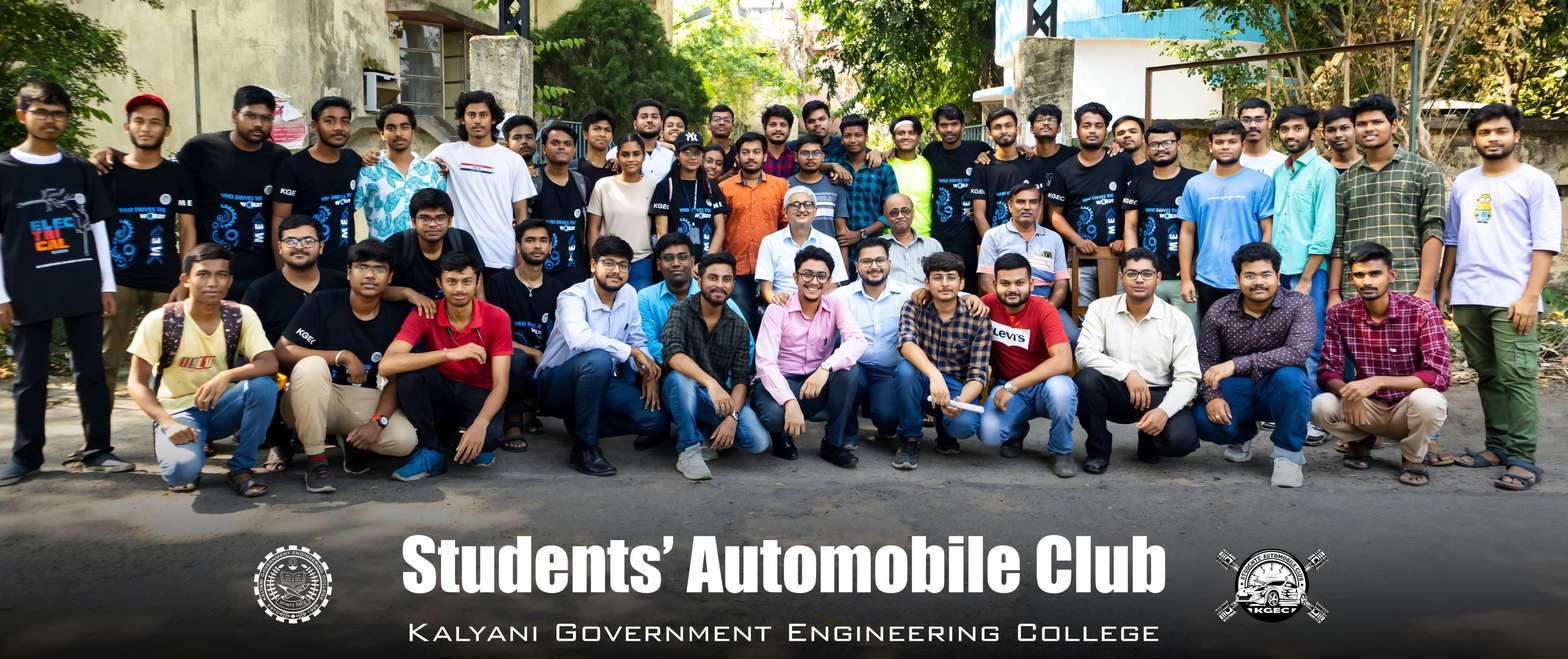
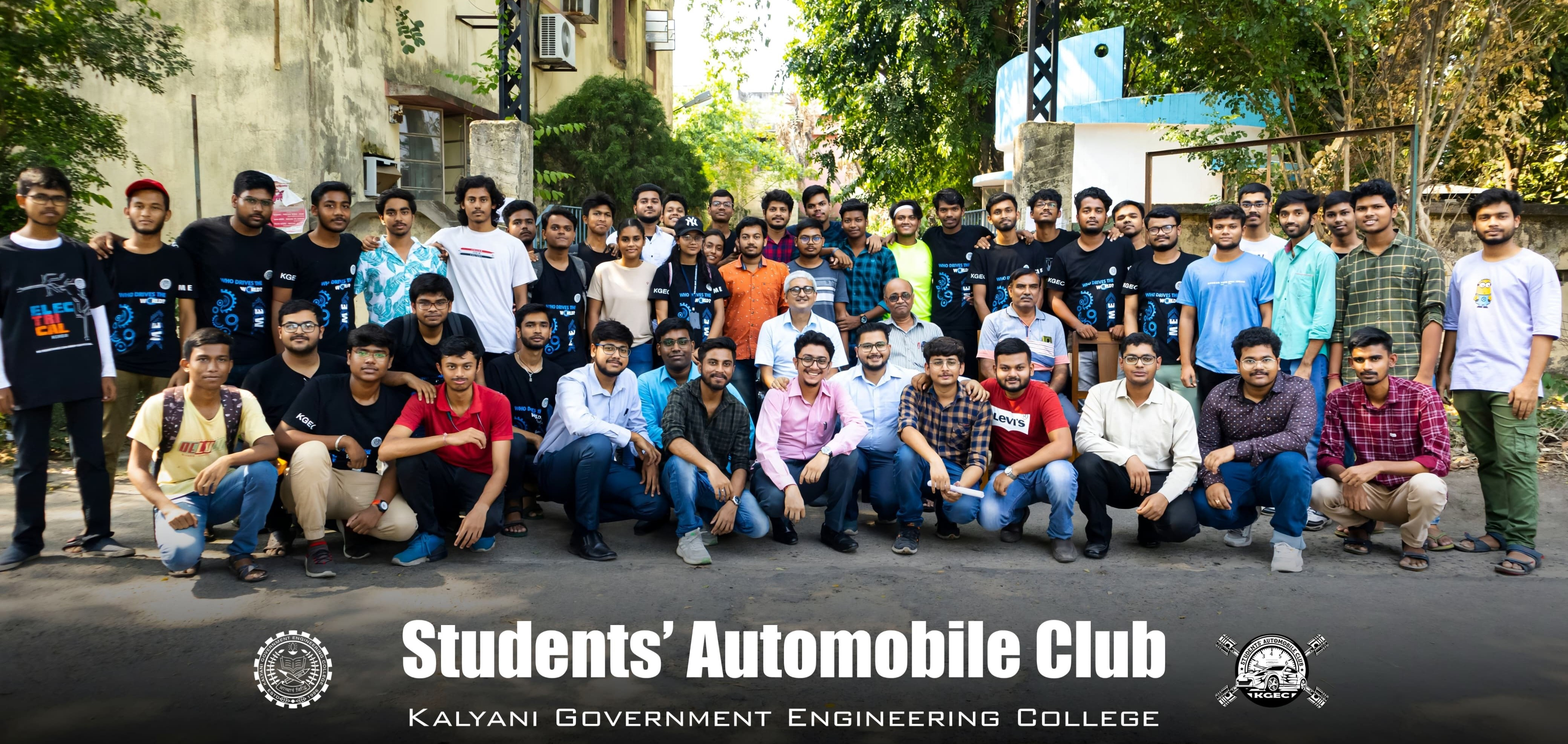
changed bg

diff --git a/src/Components/SocialLinks.jsx b/src/Components/SocialLinks.jsx
@@ -11,7 +11,7 @@ const SocialLinks = () => {
         href="https://www.instagram.com/sac_kgec?igsh=MWJzN3dnMm1iNDFjMQ=="
         target="_blank"
         rel="noopener noreferrer"
-        className=" hover:cursor-pointer bg-customColor text-center flex felx-col hover:bg-orange-600/60 justify-center items-center w-fit h-fit rounded-full p-2"
+        className="shadow-lg hover:cursor-pointer bg-customColor text-center flex felx-col hover:bg-orange-600/60 justify-center items-center w-fit h-fit rounded-full p-2"
       >
         <FaInstagram className="text-white font-bold sm:h-10 h-8 sm:w-10 w-8" />
       </a>
@@ -19,7 +19,7 @@ const SocialLinks = () => {
         href="https://www.facebook.com/share/wBioE34VAxutAccD/?mibextid=qi2Omg"
         target="_blank"
         rel="noopener noreferrer"
-        className="hover:bg-orange-600/60 hover:cursor-pointer  bg-customColor text-center flex felx-col justify-center items-center w-fit h-fit rounded-full p-2"
+        className="shadow-lg hover:bg-orange-600/60 hover:cursor-pointer  bg-customColor text-center flex felx-col justify-center items-center w-fit h-fit rounded-full p-2"
       >
         <FaFacebookF className="text-white font-bold sm:h-10 h-8 sm:w-10 w-8" />
       </a>
@@ -27,7 +27,7 @@ const SocialLinks = () => {
         href="https://youtube.com/@studentsautomobileclubkgec?si=6qhbX2yXYD2py0bw"
         target="_blank"
         rel="noopener noreferrer"
-        className="hover:bg-orange-600/60 hover:cursor-pointer  bg-customColor text-center flex felx-col justify-center items-center w-fit h-fit rounded-full p-2"
+        className="shadow-lg hover:bg-orange-600/60 hover:cursor-pointer  bg-customColor text-center flex felx-col justify-center items-center w-fit h-fit rounded-full p-2"
       >
         <FaYoutube className="text-white font-bold sm:h-10 h-8 sm:w-10 w-8" />
       </a>
@@ -35,7 +35,7 @@ const SocialLinks = () => {
         href="https://www.linkedin.com/company/students-automobile-club-of-kgec/"
         target="_blank"
         rel="noopener noreferrer"
-        className="hover:bg-orange-600/60 hover:cursor-pointer  bg-customColor text-center flex felx-col justify-center items-center w-fit h-fit rounded-full p-2"
+        className="shadow-lg hover:bg-orange-600/60 hover:cursor-pointer  bg-customColor text-center flex felx-col justify-center items-center w-fit h-fit rounded-full p-2"
       >
         <FaLinkedin className="text-white font-bold sm:h-10 h-8 sm:w-10 w-8" />
       </a>

diff --git a/src/Components/HeroBanner.jsx b/src/Components/HeroBanner.jsx
@@ -2,7 +2,7 @@ import React, { forwardRef } from "react";
 
 const HeroBanner = forwardRef((props, ref) => {
   return (
-    <div ref={ref} className="sm:mt-[11vh] mt-[9vh]" id="home">
+    <div ref={ref} className="mt-[5vh]" id="home">
       <div className="pl-10 pr-20 bg-image flex felx-col justify-start items-center w-full">
         <div className="rounded-2xl px-5 py-3 bg-slate-300/40 w-fit shadow-md ">
           <h2 className="text-white sm:text-6xl text-5xl">Students' Automobile Club KGEC</h2>

diff --git a/src/Components/Navbar.jsx b/src/Components/Navbar.jsx
@@ -56,7 +56,7 @@ const Navbar = ({ sections, activeSection, onNavClick }) => {
           onClick={() => {
             setIsOpen(!isOpen);
           }}
-          className="hover:bg-slate-300/50 flex flex-col justify-center items-center text-center p-2 rounded-lg"
+          className="hover:bg-slate-300/50 flex flex-col justify-center items-center text-center p-3 rounded-lg"
         >
           <CiMenuBurger className="font-bold text-4xl" />
         </button>

diff --git a/src/Components/DomainCard.jsx b/src/Components/DomainCard.jsx
@@ -8,7 +8,7 @@ const DomainCard = ({ item }) => {
           <img src={item.icon} alt={item.title} className="w-20 h-fit" />
         </div>
         <div>
-          <span className="sm:text-3xl text-2xl font-bold text-white">{item.title}</span>
+          <span className="sm:text-3xl text-2xl font-semibold text-white">{item.title}</span>
         </div>
       </div>
       <div className="sm:text-2xl text-md font-sans text-white font-thin">

diff --git a/src/index.css b/src/index.css
@@ -739,11 +739,11 @@ ul.nostyle i {
   background-color: rgb(255, 81, 81); /* Scrollbar color on hover */
 }
 
-.bg-image{
-  background-image: url("./assets/background/bg.jpeg");
+.bg-image {
+  background-image: url("./assets/background/bg1.jpeg");
   background-position: center;
   background-repeat: no-repeat;
-  background-size: cover;
+  background-size:cover;
   overflow: hidden;
   height: 90vh;
   color: #fff;
